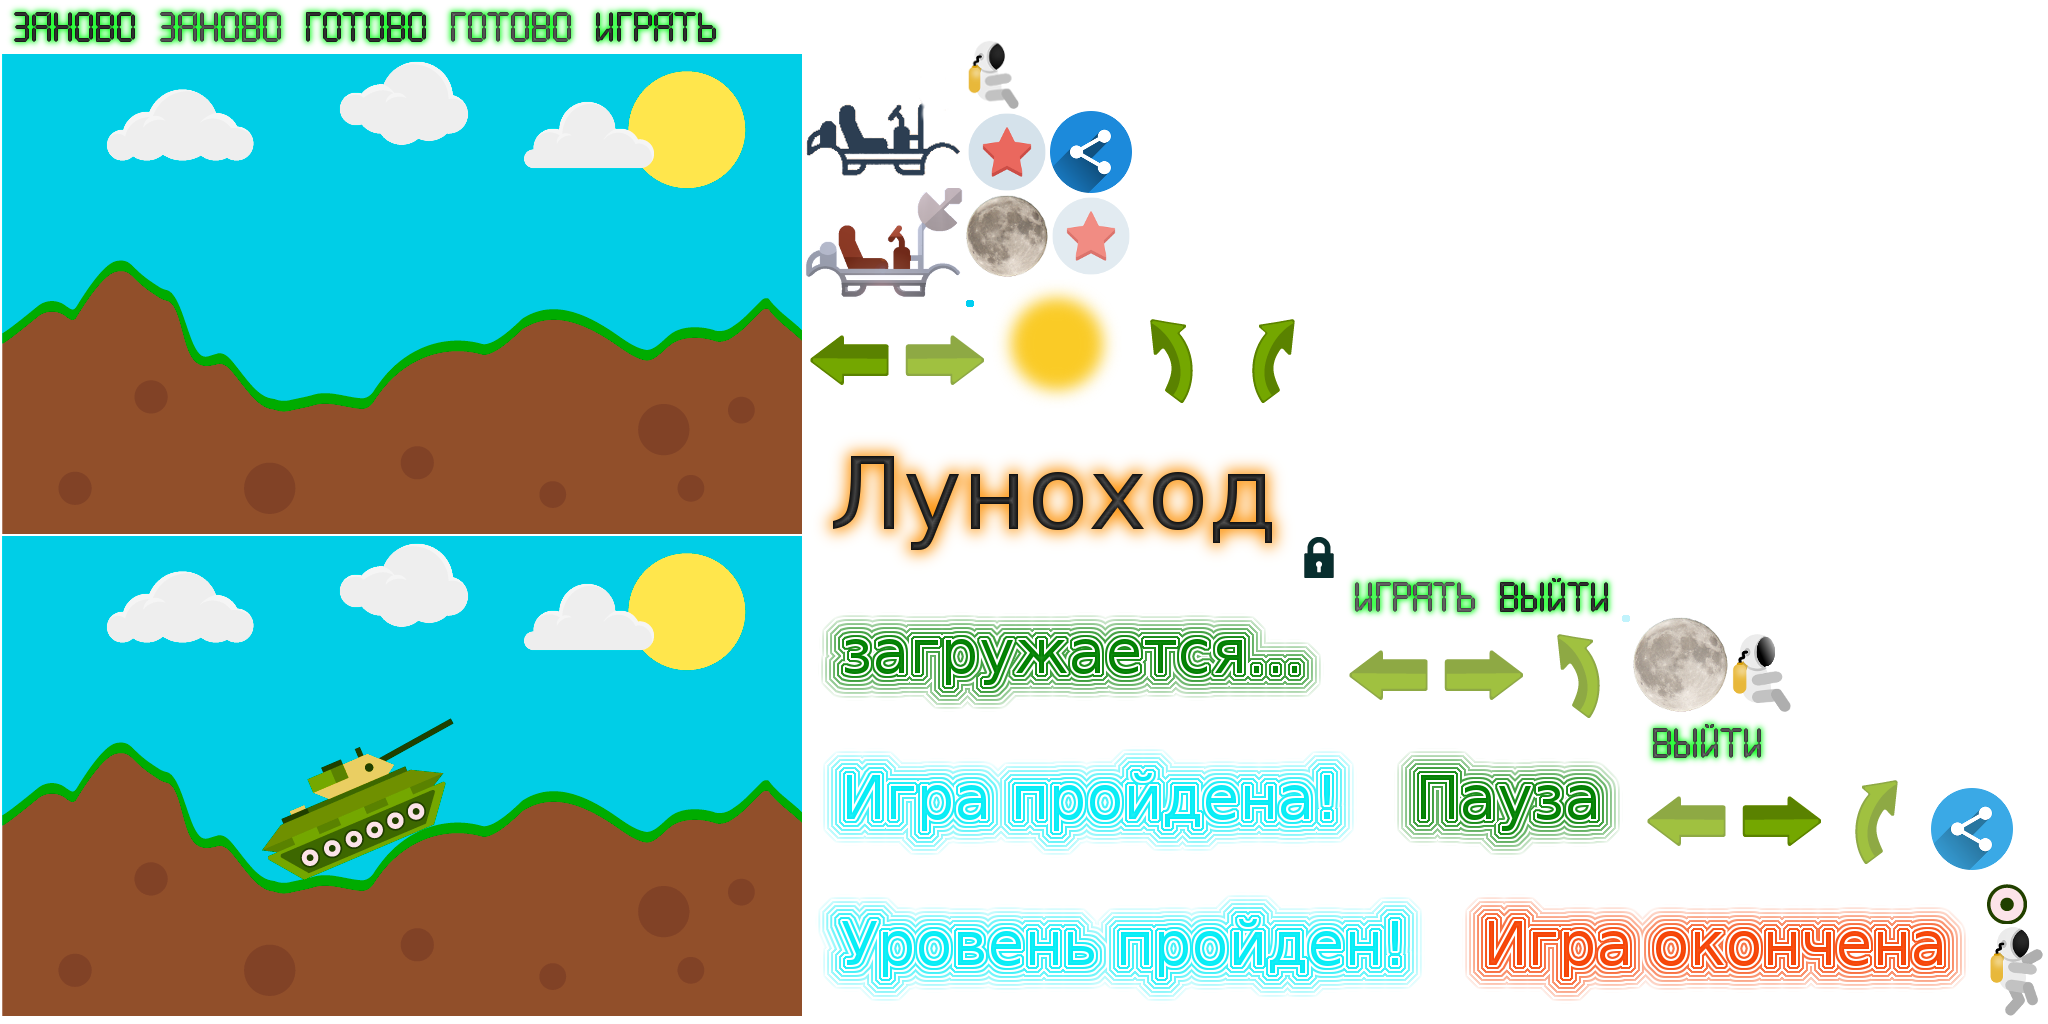
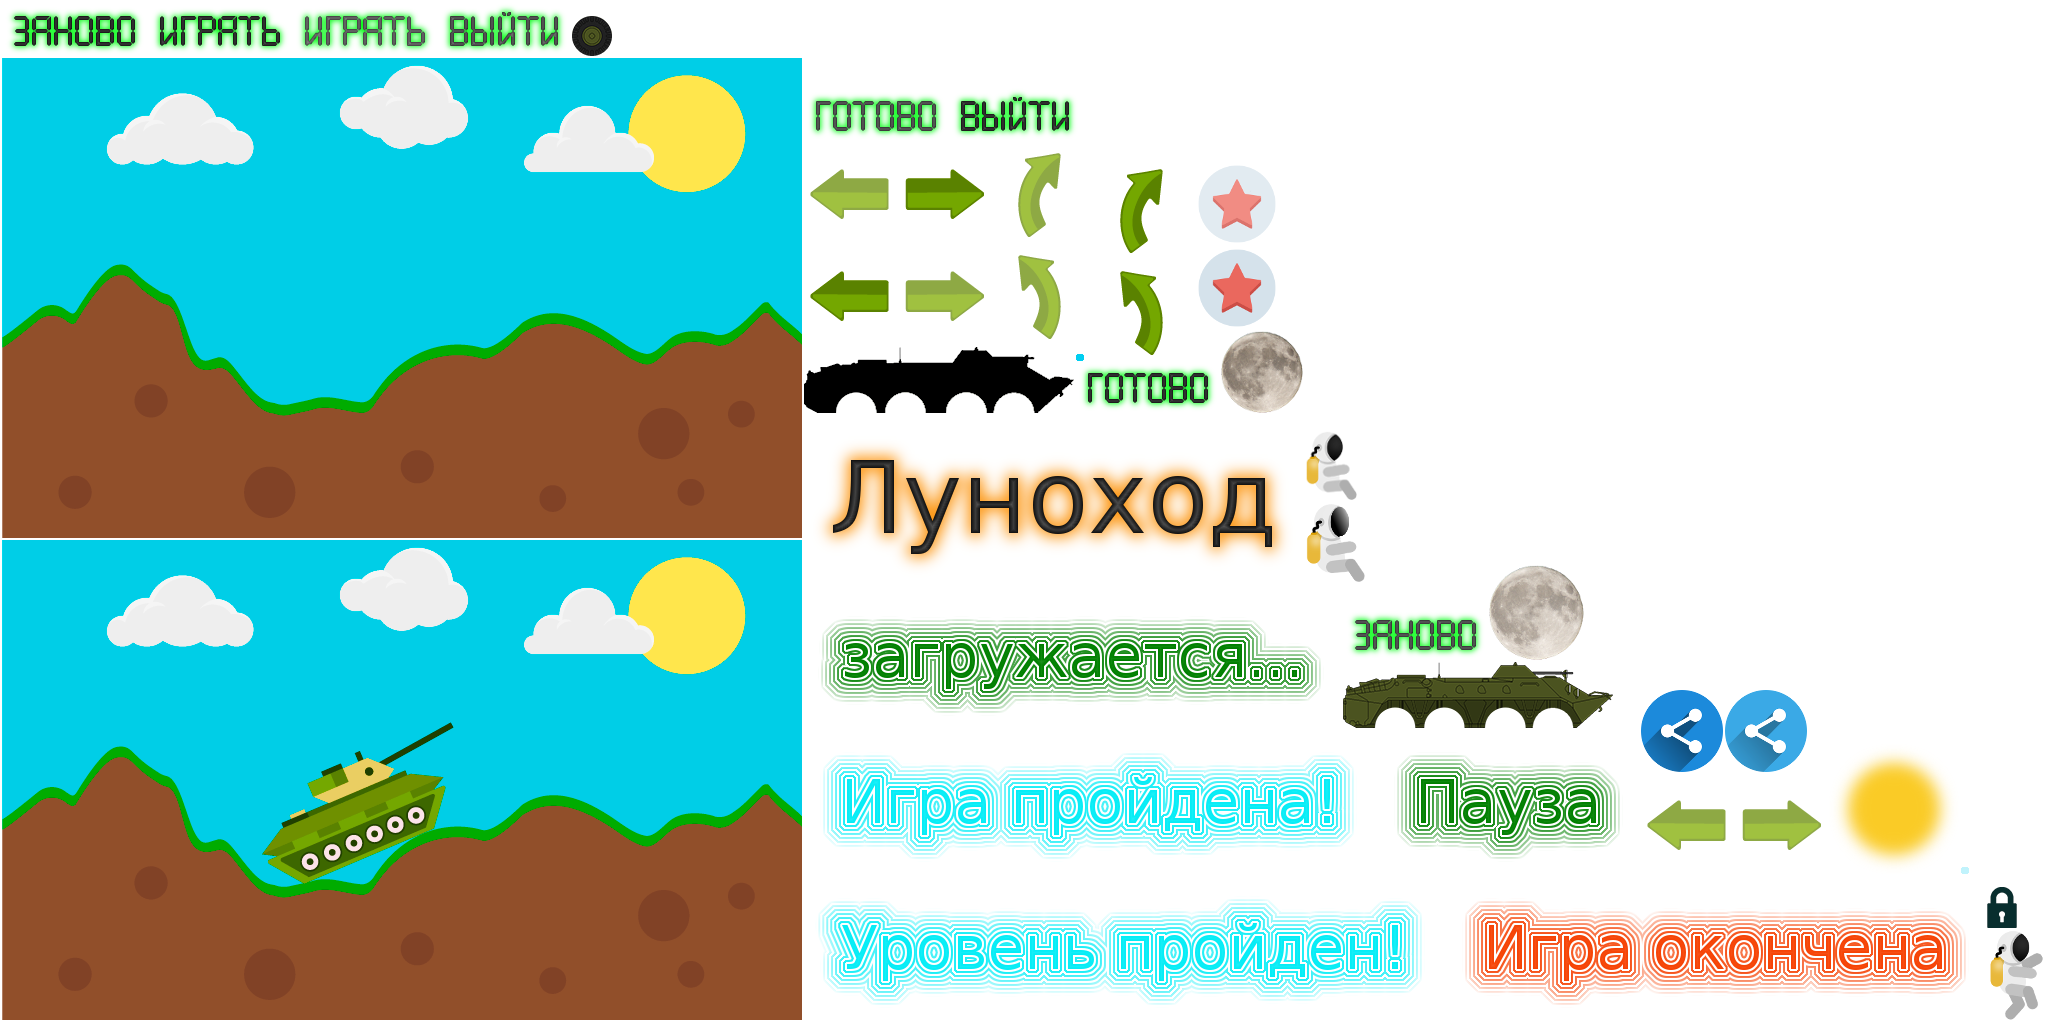
Feature # Delete astronaut, add BTR.

diff --git a/core/src/vlad/stupak/player/Player.java b/core/src/vlad/stupak/player/Player.java
@@ -14,7 +14,6 @@ import com.badlogic.gdx.physics.box2d.Joint;
 import com.badlogic.gdx.physics.box2d.PolygonShape;
 import com.badlogic.gdx.physics.box2d.World;
 import com.badlogic.gdx.physics.box2d.joints.RevoluteJointDef;
-import com.badlogic.gdx.physics.box2d.joints.WeldJointDef;
 import com.badlogic.gdx.scenes.scene2d.Group;
 import com.badlogic.gdx.scenes.scene2d.ui.Image;
 import com.badlogic.gdx.utils.Array;
@@ -24,19 +23,19 @@ import com.boontaran.marchingSquare.MarchingSquare;
 
 import java.util.ArrayList;
 
-import vlad.stupak.TankHill;
 import vlad.stupak.Setting;
+import vlad.stupak.TankHill;
 import vlad.stupak.levels.Level;
 
 public class Player extends ActorClip implements IBody{
 
-    private Image roverImg, astronautImg, astronautFallImg, frontWheelImage,rearWheelImg;
+    private Image roverImg, astronautImg, astronautFallImg, frontWheelImage, frontWheelImage2, rearWheelImg, rearWheelImg2;
 
-    private Group frontWheelCont, rearWheelCont, astronautFallCont;
+    private Group frontWheelCont, frontWheelCont2, rearWheelCont, rearWheelCont2, astronautFallCont;
 
-    public Body rover, frontWheel, rearWheel, astronaut;
+    public Body rover, frontWheel, frontWheel2, rearWheel, rearWheel2, astronaut;
 
-    private Joint frontWheelJoint, rearWheelJoint, astroJoint;
+    private Joint frontWheelJoint, frontWheelJoint2, rearWheelJoint, rearWheelJoint2, astroJoint;
 
     private World world;
 
@@ -58,13 +57,11 @@ public class Player extends ActorClip implements IBody{
         childs.addActor(roverImg);
         roverImg.setX(-roverImg.getWidth()/2);
 
-        roverImg.setY(-15);
-
-        astronautImg = new Image(TankHill.atlas.findRegion("astronaut"));
+        /*astronautImg = new Image(TankHill.atlas.findRegion("astronaut"));
         childs.addActor(astronautImg);
 
         astronautImg.setX(-35);
-        astronautImg.setY(20);
+        astronautImg.setY(20);*/
 
         astronautFallCont = new Group();
 
@@ -109,8 +106,10 @@ public class Player extends ActorClip implements IBody{
         rover = createBodyFromTriangles(world, triangles);
         rover.setTransform((getX()) / Level.WORLD_SCALE, (getY()) / Level.WORLD_SCALE, 0);
 
-        frontWheel = createWheel(world, 20 / Level.WORLD_SCALE);
-        frontWheel.setTransform(rover.getPosition().x + 60 / Level.WORLD_SCALE, rover.getPosition().y - 8 / Level.WORLD_SCALE, 0);
+
+        // FRONT WHEEL
+        frontWheel = createWheel(world, 18 / Level.WORLD_SCALE);
+        frontWheel.setTransform(rover.getPosition().x + 75 / Level.WORLD_SCALE, rover.getPosition().y + 1/Level.WORLD_SCALE, 0);
 
         frontWheelCont = new Group();
         frontWheelImage = new Image(TankHill.atlas.findRegion("front_wheel"));
@@ -130,8 +129,30 @@ public class Player extends ActorClip implements IBody{
         frontWheelJoint = world.createJoint(rDef);
 
 
-        rearWheel = createWheel(world, 20 / Level.WORLD_SCALE);
-        rearWheel.setTransform(rover.getPosition().x - 62 / Level.WORLD_SCALE, rover.getPosition().y - 8 / Level.WORLD_SCALE, 0);
+        //FRONT WHEEL 2
+        frontWheel2 = createWheel(world, 18 / Level.WORLD_SCALE);
+        frontWheel2.setTransform(rover.getPosition().x + 27 / Level.WORLD_SCALE, rover.getPosition().y + 1/Level.WORLD_SCALE, 0);
+
+        frontWheelCont2 = new Group();
+        frontWheelImage2 = new Image(TankHill.atlas.findRegion("front_wheel"));
+
+        frontWheelCont2.addActor(frontWheelImage2);
+        frontWheelImage2.setX(-frontWheelImage2.getWidth()/2);
+        frontWheelImage2.setY(-frontWheelImage2.getHeight()/2);
+
+        getParent().addActor(frontWheelCont2);
+
+        data = new UserData();
+        data.actor = frontWheelCont2;
+        frontWheel2.setUserData(data);
+
+        rDef.initialize(rover, frontWheel2, new Vector2(frontWheel2.getPosition()));
+        frontWheelJoint2 = world.createJoint(rDef);
+
+
+        // REAR WHEEL
+        rearWheel = createWheel(world, 18 / Level.WORLD_SCALE);
+        rearWheel.setTransform(rover.getPosition().x - 83 / Level.WORLD_SCALE, rover.getPosition().y + 1/Level.WORLD_SCALE, 0);
         rDef = new RevoluteJointDef();
 
 
@@ -149,7 +170,28 @@ public class Player extends ActorClip implements IBody{
         rDef.initialize(rover, rearWheel, new Vector2(rearWheel.getPosition()));
         rearWheelJoint = world.createJoint(rDef);
 
-        vertices = traceOutline("astronaut_model");
+
+        // REAR WHEEL 2
+        rearWheel2 = createWheel(world, 18 / Level.WORLD_SCALE);
+        rearWheel2.setTransform(rover.getPosition().x - 35 / Level.WORLD_SCALE, rover.getPosition().y + 1/Level.WORLD_SCALE, 0);
+        rDef = new RevoluteJointDef();
+
+
+        rearWheelCont2 = new Group();
+        rearWheelImg2 = new Image(TankHill.atlas.findRegion("rear_wheel"));
+        rearWheelCont2.addActor(rearWheelImg2);
+        rearWheelImg2.setX(-rearWheelImg2.getWidth()/2);
+        rearWheelImg2.setY(-rearWheelImg2.getHeight()/2);
+
+        getParent().addActor(rearWheelCont2);
+        data = new UserData();
+        data.actor = rearWheelCont2;
+        rearWheel2.setUserData(data);
+
+        rDef.initialize(rover, rearWheel2, new Vector2(rearWheel2.getPosition()));
+        rearWheelJoint2 = world.createJoint(rDef);
+
+        /*vertices = traceOutline("astronaut_model");
         centroid = Level.calculateCentroid(vertices);
 
         i = 0;
@@ -167,10 +209,7 @@ public class Player extends ActorClip implements IBody{
 
         WeldJointDef actronautDef = new WeldJointDef();
         actronautDef.initialize(rover, astronaut, new Vector2(astronaut.getPosition()));
-        astroJoint = world.createJoint(actronautDef);
-
-
-
+        astroJoint = world.createJoint(actronautDef);*/
 
         return rover;
     }
@@ -189,9 +228,9 @@ public class Player extends ActorClip implements IBody{
         shape.setRadius(rad);
 
         fDef.shape = shape;
-        fDef.restitution = 0.5f;
-        fDef.friction = 0.4f;
-        fDef.density = 1;
+        fDef.restitution = 0.1f;  //0.5f эластичность
+        fDef.friction = 1;  //0.4f трение
+        fDef.density = 1;  //1 плотность кг/m^2
 
         body.createFixture(fDef);
         shape.dispose();
@@ -257,8 +296,8 @@ public class Player extends ActorClip implements IBody{
             shape.set(triangle.getTransformedVertices());
 
             fDef.shape = shape;
-            fDef.restitution = 0.3f;
-            fDef.density = 1;
+            fDef.restitution = 0; //0.3f эластичность
+            fDef.density = 1.2f;  //1 плотность кг/m^2
 
             body.createFixture(fDef);
             shape.dispose();
@@ -277,6 +316,13 @@ public class Player extends ActorClip implements IBody{
             if (-frontWheel.getAngularVelocity() < maxAV) {
                 frontWheel.applyTorque(-torque, true);
             }
+            if (-rearWheel2.getAngularVelocity() < maxAV) {
+                rearWheel2.applyTorque(-torque, true);
+            }
+            if (-frontWheel2.getAngularVelocity() < maxAV) {
+                frontWheel2.applyTorque(-torque, true);
+            }
+
         }
         if (moveBackKey) {
             if (rearWheel.getAngularVelocity() < maxAV) {
@@ -284,6 +330,12 @@ public class Player extends ActorClip implements IBody{
             }
             if (frontWheel.getAngularVelocity() < maxAV) {
                 frontWheel.applyTorque(torque, true);
+            }
+            if (rearWheel2.getAngularVelocity() < maxAV) {
+                rearWheel2.applyTorque(torque, true);
+            }
+            if (frontWheel2.getAngularVelocity() < maxAV) {
+                frontWheel2.applyTorque(torque, true);
             }
         }
     }
@@ -318,11 +370,11 @@ public class Player extends ActorClip implements IBody{
             destroyOnNextUpdate = false;
             world.destroyJoint(frontWheelJoint);
             world.destroyJoint(rearWheelJoint);
-            world.destroyJoint(astroJoint);
-            world.destroyBody(astronaut);
-            astronautImg.remove();
+            //world.destroyJoint(astroJoint);
+            //world.destroyBody(astronaut);
+            //astronautImg.remove();
 
-            astronautFall();
+            //astronautFall();
         }
 
         super.act(delta);

diff --git a/core/src/vlad/stupak/levels/Level.java b/core/src/vlad/stupak/levels/Level.java
@@ -73,7 +73,6 @@ public class Level extends StageGame{
     private Player player;
     private Body finish;
 
-    private boolean moveFrontKey, moveBackKey;
     private Image pleaseWait;
 
     private JoyStick joyStick;
@@ -304,32 +303,15 @@ public class Level extends StageGame{
             Body bodyA = contact.getFixtureA().getBody();
             Body bodyB = contact.getFixtureB().getBody();
 
-            if (bodyA == player.astronaut) {
+            if (bodyA == player.rover) {
                 playerTouch(bodyB);
                 return;
             }
-            if (bodyB == player.astronaut) {
+            if (bodyB == player.rover) {
                 playerTouch(bodyA);
                 return;
             }
-
-            if (bodyA == player.rover) {
-                UserData data = (UserData) bodyB.getUserData();
-                if (data!= null) {
-                    if (data.name.equals("land")) {
-                        player.touchGround();
-                        return;
-                    }
-                }
-            }if (bodyB == player.rover) {
-                UserData data = (UserData) bodyA.getUserData();
-                if (data!= null) {
-                    if (data.name.equals("land")) {
-                        player.touchGround();
-                        return;
-                    }
-                }
-            }if (bodyA == player.frontWheel) {
+            if (bodyA == player.frontWheel) {
                 UserData data = (UserData) bodyB.getUserData();
                 if (data!= null) {
                     if (data.name.equals("land")) {
@@ -362,12 +344,6 @@ public class Level extends StageGame{
                     }
                 }
             }
-
-
-
-
-
-
         }
 
         @Override

diff --git a/core/src/vlad/stupak/Setting.java b/core/src/vlad/stupak/Setting.java
@@ -5,11 +5,11 @@ package vlad.stupak;
  */
 
 public class Setting {
-    public static final boolean DEBUG_GAME = true;
-    public static final boolean DEBUG_WORLD = true;
+    public static final boolean DEBUG_GAME = false;
+    public static final boolean DEBUG_WORLD = false;
 
 
-    public static final float GRAVITY = 8;
+    public static final float GRAVITY = 35;  //8 гравитация
     public static final float JUMP_IMPULSE = 80;
-    public static final float WHEEL_TORQUE = 50;
+    public static final float WHEEL_TORQUE = 150;  //50 крутящий момент
 }
